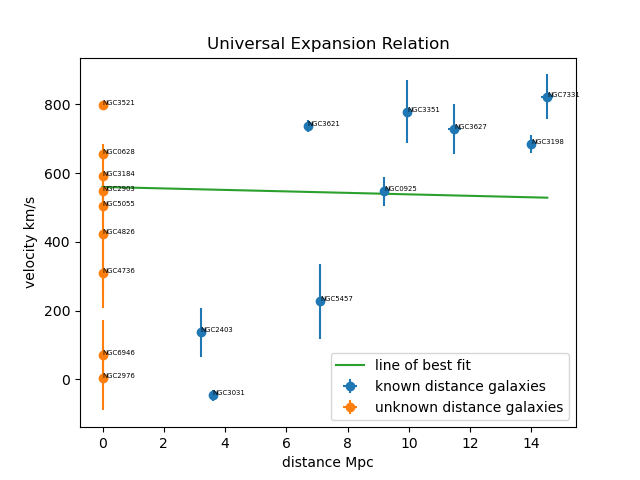
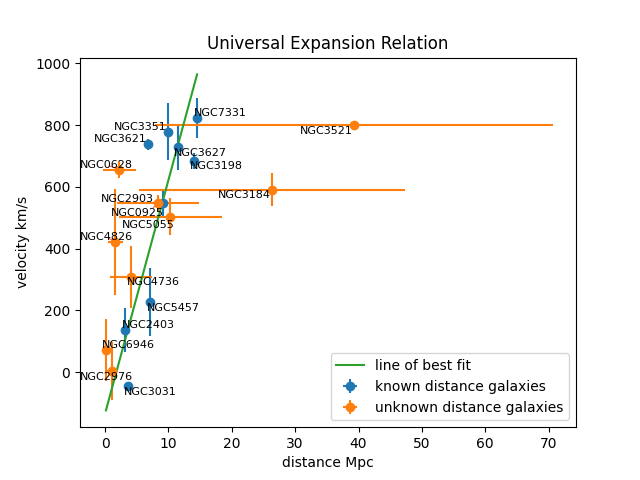
confidence interval

diff --git a/python/z88769jg_zboson.py b/python/z88769jg_zboson.py
@@ -28,6 +28,7 @@ import matplotlib.pyplot as plt;
 import scipy.optimize as sp;
 from scipy.odr import ODR, Model, Data, RealData;
 import math;
+from adjustText import adjust_text;
 
 FILE_NAME = '../data.csv';
 FILE_NAME_PREDICTED = "../data_predicted.csv";
@@ -121,22 +122,20 @@ def plot_result( xdata, ydata, sigma_x, sigma_y, result, pred_x, pred_y, pred_si
     ax = fig.add_subplot( 111 );
     
     ax.errorbar( xdata, ydata, xerr=sigma_x, yerr=sigma_y, fmt='o', label="known distance galaxies" );
-    for i in range( 0, len( labels ) ):
-        ax.annotate( labels[ i ], (xdata[ i ] + .001, ydata[ i ] + .1), fontsize=5 );
-    ax.errorbar( pred_x, pred_y, yerr=pred_sigma_y, fmt='o', label="predicted distance galaxies" );
-    for i in range( 0, len( pred_labels ) ):
-        ax.annotate( pred_labels[ i ], (pred_x[ i ] + .001, pred_y[ i ] + .1), fontsize=5 );
+    ax.errorbar( pred_x, pred_y, yerr=pred_sigma_y / 2, fmt='o', label="predicted distance galaxies" );
     x_line = np.linspace( np.min( xdata ), np.max( xdata ), 1000000 );
     ax.plot( x_line, luminosity( result, x_line ), label="line of best fit" );
     
-    result[ 0 ] += sigma_params[ 0 ];
-    ax.plot( x_line, luminosity( result, x_line ), color="r", label="line of worst fit" );
-    result[ 0 ] -= 2*sigma_params[ 0 ];
-    ax.plot( x_line, luminosity( result, x_line ), color="r", label="line of worst fit" );
+    texts = [ax.text(xdata[i], ydata[i], labels[i], ha='center', va='center', fontsize=8) for i in range(len(labels))]
+    pred_texts = [ax.text(pred_x[i], pred_y[i], pred_labels[i], ha='center', va='center', fontsize=8) for i in range(len(pred_labels))]
+    for i in range( len( pred_texts ) ):
+        texts.append( pred_texts[ i ] );
+    adjust_text(texts, arrowprops=dict(arrowstyle='-', color='red', lw=0.5))
+    #adjust_text(pred_texts, arrowprops=dict(arrowstyle='->', color='red'))
     
     ax.set_title( 'Tully Fisher Relation' );
     ax.set_xlabel( 'Rotational Velocity km/s' );
-    ax.set_ylabel( 'Luminosity Density W/Hz' );
+    ax.set_ylabel( 'Luminosity Density W/Hz E+27' );
     ax.legend();
     plt.savefig( 'TullyFisher.png' );
     plt.show();
@@ -167,14 +166,14 @@ pred_vel_err = data_predicted[ 0 ][ :, 7 ];
 
 odr_data = RealData( xdata, ydata, sigma_x, sigma_y  );
 odr_model = Model( luminosity );
-odr = ODR( odr_data, odr_model, beta0 = [ 6, 1 ] );
+odr = ODR( odr_data, odr_model, beta0 = [ 6, 1e-15 ], maxit=100000 );
 odr.set_job( fit_type=0 );
 output = odr.run();
 
-parameters = output.beta;
-sigmas = output.sd_beta;
-
 residuals = output.res_var;
+parameters = output.beta;
+sigmas = output.sd_beta / np.sqrt( output.res_var );
+
 
 #res = sp.curve_fit( luminosity_curvefit, xdata, ydata, None, sigma_y, True );
 #parameters = res[ 0 ];
@@ -191,25 +190,30 @@ fig = plt.figure();
 ax = fig.add_subplot( 111 );
 
 ax.errorbar( dist, vel, xerr=dist_err, yerr=vel_err, fmt='o', label="known distance galaxies" );
-ax.errorbar( pred_dist, pred_vel, xerr=pred_dist_err, yerr=pred_vel_err, fmt='o', label="unknown distance galaxies" );
-for i in range( 0, len( data[ 1 ] ) ):
-    ax.annotate( data[ 1 ][ i ], (dist[ i ] + .001, vel[ i ] + .1), fontsize=5 );
-for i in range( 0, len( data_predicted[ 1 ] ) ):
-    ax.annotate( data_predicted[ 1 ][ i ], (pred_dist[ i ] + .001, pred_vel[ i ] + .1), fontsize=5 );
+ax.errorbar( pred_dist, pred_vel, xerr=pred_dist_err / 2, yerr=pred_vel_err, fmt='o', label="unknown distance galaxies" );
 
 odr_data = RealData( np.append( dist, pred_dist ), np.append( vel, pred_vel ), np.append( dist_err, pred_dist_err ), np.append( vel_err, pred_vel_err ) );
 odr_model = Model( linear );
-odr = ODR( odr_data, odr_model, beta0 = [ 6, 1 ] );
+odr = ODR( odr_data, odr_model, beta0 = [ 4, 1 ] );
 odr.set_job( fit_type=0 );
 output = odr.run();
-#output.pprint();
 
 parameters = output.beta;
-sigmas = output.sd_beta;
+sigmas = output.sd_beta / np.sqrt( output.res_var );
 residuals = output.res_var;
 
-x_line = np.linspace( np.min( np.append( dist, pred_dist ) ), np.max( np.append( dist, pred_dist ) ), 1000000 );
+print( str( residuals ) );
+print( str( parameters[ 0 ] ) + " +/- " + str( sigmas[ 0 ] ) )
+print( str( parameters[ 1 ] ) + " +/- " + str( sigmas[ 1 ] ) )
+
+x_line = np.linspace( np.min( np.append( dist, pred_dist ) ), np.max( dist ), 1000000 );
 ax.plot( x_line, linear( parameters, x_line ), label="line of best fit" );
+
+texts = [ax.text(dist[i], vel[i], data[ 1 ][i], ha='center', va='center', fontsize=8) for i in range(len(data[ 1 ]))]
+pred_texts = [ax.text(pred_dist[i], pred_vel[i], data_predicted[ 1 ][i], ha='center', va='center', fontsize=8) for i in range(len(data_predicted[ 1 ]))]
+for i in range( len( pred_texts ) ):
+    texts.append( pred_texts[ i ] );
+adjust_text(texts, arrowprops=dict(arrowstyle='-', color='red', lw=0.5))
 
 
 ax.set_title( 'Universal Expansion Relation' );

diff --git a/Program.cs b/Program.cs
@@ -211,8 +211,10 @@ foreach ( (pt[] x, string name) in GetXYDataForEachFile( GetListData( "DKList" )
 #else
 StreamWriter Outfile = new( "data_predicted.csv" );
 Outfile.WriteLine( "Data - RotVelocity - RotVelocity Error - Luminosity - Luminosity Error - Distance - Distance Error - Velocity - Velocity Error" );
-statval A = (4.217957e+01f, 7.783958e+00f);
-statval B = (4.050670926540902f, 1.4944752485181898f);
+//statval A = (4.217957e+01f, 7.783958e+00f);
+//statval B = (4.050670926540902f, 1.4944752485181898f);
+statval B = (7.735729998874423f, 0.4130204204558944f);
+statval A = (6.0506603477263695e-18f, 1.3208230713361719e-17f);
 foreach ( (pt[] x, string name) in GetXYDataForEachFile( GetListData( "DUList" ) ) )
 #endif
 {
@@ -222,9 +224,6 @@ foreach ( (pt[] x, string name) in GetXYDataForEachFile( GetListData( "DUList" )
     statval RotSpeed = GetRotSpeed( HWHM, incl );
     statval FluxDensity = fluxdensities[ name ];
 
-    RotSpeed.val /= 29.78f;
-    RotSpeed.err /= 29.78f;
-
 #if KnownDistances
     statval dist = GetDistance( distance_moduli[ name ] );
     double distf = dist.val * 3.2408E-23;
@@ -232,26 +231,26 @@ foreach ( (pt[] x, string name) in GetXYDataForEachFile( GetListData( "DUList" )
     double lum = FluxDensity.val * 4d * Math.PI * dist.val * dist.val;
     double lum_err = lum * Math.Sqrt( Math.Pow( FluxDensity.err / FluxDensity.val, 2 ) + Math.Pow( dist.err / dist.val, 2 ) );
 
-    lum /= 3.828e26;
-    lum_err /= 3.828e26;
+    lum /= 1e27;
+    lum_err /= 1e27;
 
     Outfile.WriteLine( name + "," + RotSpeed.val + "," + RotSpeed.err + "," + lum + "," + lum_err  + "," + distf + "," + dist_errf + "," + WeightedMean.val + "," + WeightedMean.err );
 
 #else
-    //double lum = A.val * Math.Pow( RotSpeed.val, B.val );
-    //double lum_err = Math.Pow( A.err / A.val, 2 ) + Math.Pow( RotSpeed.err * B.val / RotSpeed.val, 2 ) + Math.Pow( B.err * Math.Log( RotSpeed.val ), 2 );
-    //lum_err = lum * Math.Sqrt( lum_err );
-    double lum_log = A.val + B.val * Math.Log( RotSpeed.val );
-    double lum_log_low = ( A.val - A.err ) + ( B.val + B.err ) * Math.Log( RotSpeed.val - RotSpeed.err );
-    double lum_log_high = ( A.val + A.err ) + ( B.val - B.err ) * Math.Log( RotSpeed.val + RotSpeed.err );
-    double lum_log_err = 0.5 * ( lum_log_high - lum_log_low );
+    double lum = A.val * Math.Pow( RotSpeed.val, B.val );
+    double lum_err = Math.Pow( A.err / A.val, 2 ) + Math.Pow( RotSpeed.err * B.val / RotSpeed.val, 2 ) + Math.Pow( B.err * Math.Log( RotSpeed.val ), 2 );
+    lum_err = lum * Math.Sqrt( lum_err );
+
+    lum *= 1e27;
+    lum_err *= 1e27;
+
+    //double lum_log = A.val + B.val * Math.Log( RotSpeed.val );
+    //double lum_log_low = ( A.val - A.err ) + ( B.val + B.err ) * Math.Log( RotSpeed.val - RotSpeed.err );
+    //double lum_log_high = ( A.val + A.err ) + ( B.val - B.err ) * Math.Log( RotSpeed.val + RotSpeed.err );
+    //double lum_log_err = 0.5 * ( lum_log_high - lum_log_low );
     
-    double lum = Math.Exp( lum_log );
-    double lum_err = lum * lum_log_err;
-
-    lum /= 3.828e26;
-    lum_err /= 3.828e26;
-
+    //double lum = Math.Exp( lum_log );
+    //double lum_err = lum * lum_log_err;
 
     double dist = Math.Sqrt( lum / ( 4 * Math.PI * FluxDensity.val ) );
     double dist_err = Math.Pow( .5f * dist * lum_err / lum, 2 ) + Math.Pow( .5f * dist * FluxDensity.err / FluxDensity.val, 2 );
@@ -259,8 +258,10 @@ foreach ( (pt[] x, string name) in GetXYDataForEachFile( GetListData( "DUList" )
 
     dist *= 3.2408E-23;
     dist_err *= 3.2408E-23;
+    
+    Outfile.WriteLine( name + "," + RotSpeed.val + "," + RotSpeed.err + "," + lum * 1e-27 + "," + lum_err * 1e-27 + "," + dist + "," + dist_err + "," + WeightedMean.val + "," + WeightedMean.err );
 
-    Outfile.WriteLine( name + "," + RotSpeed.val + "," + RotSpeed.err + "," + lum + "," + lum_err + "," + dist + "," + dist_err + "," + WeightedMean.val + "," + WeightedMean.err );
+    dist_err /= 2;
 
     Console.WriteLine( name + ": " + dist + " +/- " + dist_err );
 #endif
